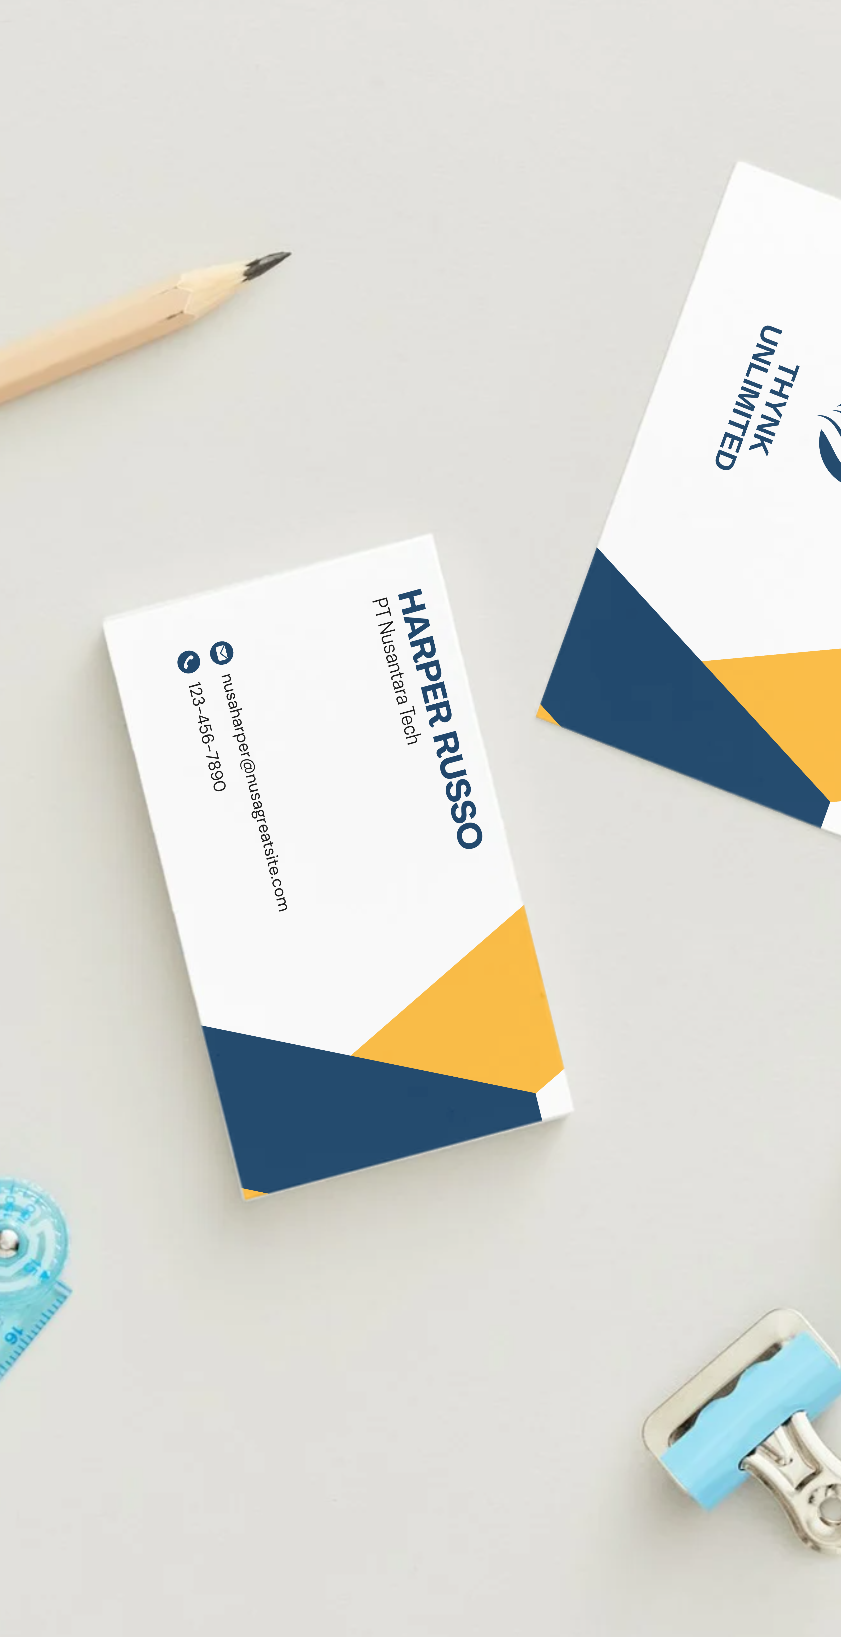
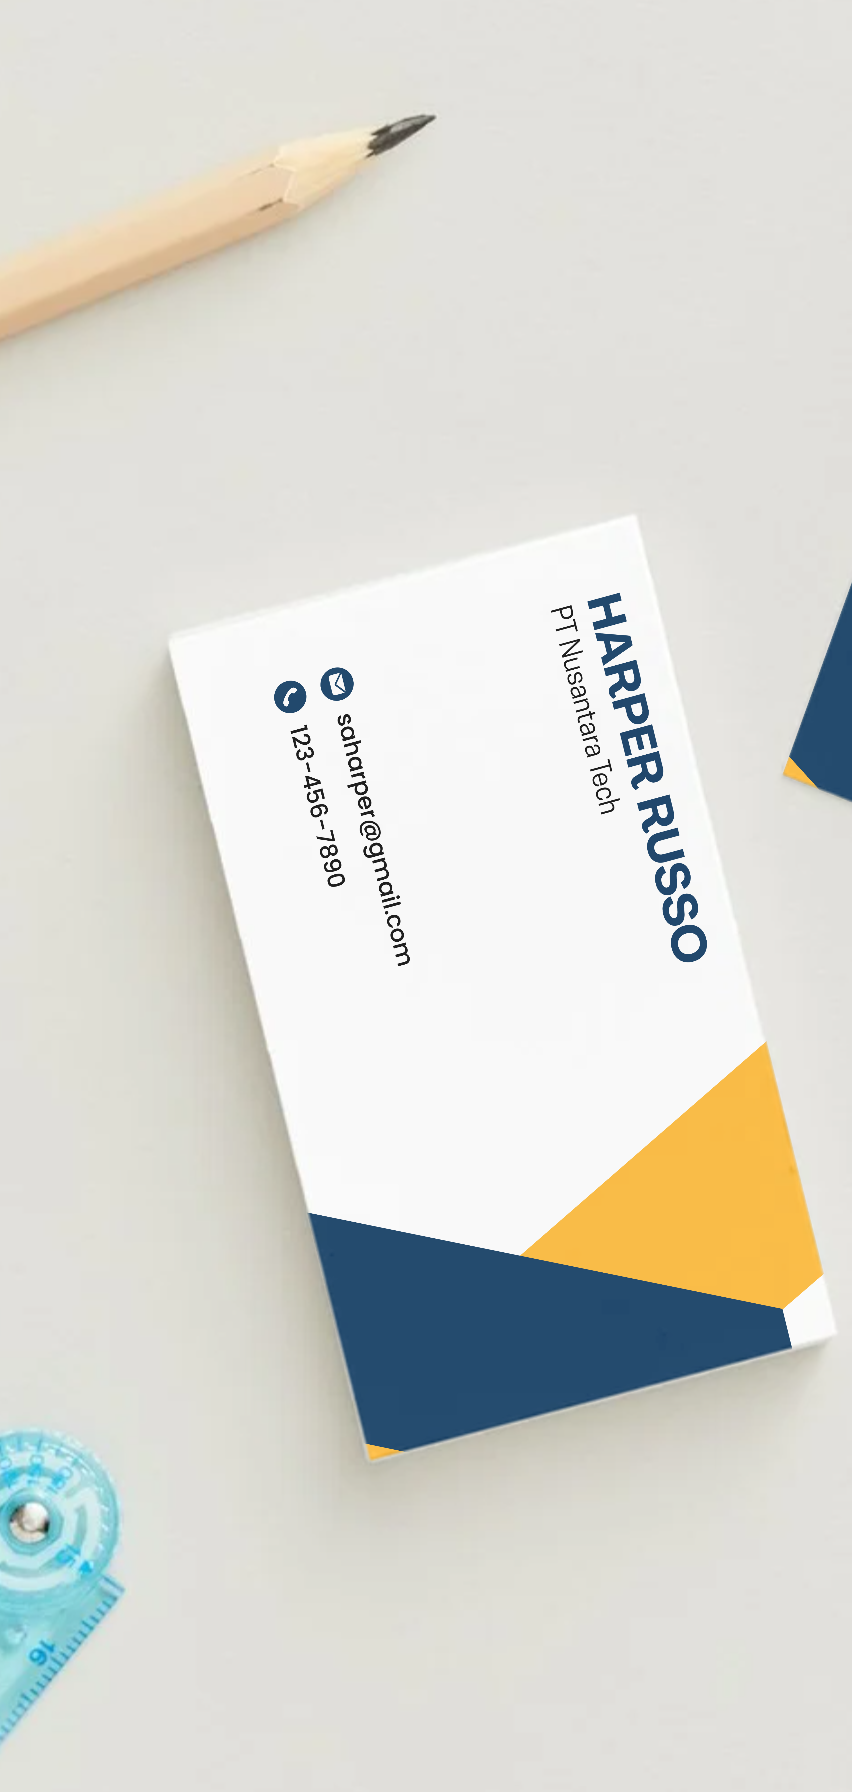
up dataset

diff --git a/src/detector.py b/src/detector.py
@@ -2,8 +2,9 @@ import cv2
 import numpy as np
 
 class DocumentDetector:
-    def __init__(self, min_area_ratio=0.03): # Diturunkan ke 0.03 agar kartu yang tampak kecil/vertikal tetap terdeteksi
+    def __init__(self, min_area_ratio=0.03, max_area_ratio=0.85):
         self.min_area_ratio = min_area_ratio
+        self.max_area_ratio = max_area_ratio
 
     def detect(self, image: np.ndarray):
         h, w = image.shape[:2]
@@ -17,18 +18,13 @@ class DocumentDetector:
             clahe = cv2.createCLAHE(clipLimit=2.5, tileGridSize=(8, 8))
             gray = clahe.apply(gray)
 
-
         blurred = cv2.GaussianBlur(gray, (5, 5), 0)
         
-        # SOLUSI 1: Mengatasi Kontras Rendah
-        # Gabungkan Canny (dengan ambang sensitif) dan Otsu Thresholding 
-        # agar tepi kartu yang putih di atas meja terang tetap terisolasi
         canny = cv2.Canny(blurred, 30, 100)
-        _, thresh_otsu = cv2.threshold(blurred, 0, 255, cv2.THRESH_BINARY_INV + cv2.THRESH_OTSU)
-        combined_edges = cv2.bitwise_or(canny, thresh_otsu)
         
         kernel = cv2.getStructuringElement(cv2.MORPH_RECT, (5, 5))
-        closed = cv2.morphologyEx(combined_edges, cv2.MORPH_CLOSE, kernel, iterations=2)
+        # Langsung proses Canny dengan morphologyEx
+        closed = cv2.morphologyEx(canny, cv2.MORPH_CLOSE, kernel, iterations=2)
         
         contours, _ = cv2.findContours(closed, cv2.RETR_EXTERNAL, cv2.CHAIN_APPROX_SIMPLE)
         contours = sorted(contours, key=cv2.contourArea, reverse=True)
@@ -38,21 +34,22 @@ class DocumentDetector:
         
         for c in contours:
             area = cv2.contourArea(c)
+            
+            # Abaikan kontur terluar jika menutupi lebih dari 85% seluruh area foto
+            if area > (image_area * self.max_area_ratio):
+                continue
+
             if area < (image_area * self.min_area_ratio):
                 break
                 
             peri = cv2.arcLength(c, True)
-            # Sedikit dilonggarkan ke 0.03 agar batas tepi tidak terlalu kaku
             approx = cv2.approxPolyDP(c, 0.03 * peri, True)
             
-            # SOLUSI 2: Melonggarkan Aturan len(approx) == 4
             if len(approx) == 4:
                 doc_contour = c
                 corners = approx.reshape(4, 2)
                 break
             elif 4 < len(approx) <= 10:
-                # Fallback: Jika ada bayangan yang membuat sudut terbaca 5-10 titik, 
-                # paksa buat kotak area terkecil (Minimum Bounding Box) dari kontur tersebut
                 rect = cv2.minAreaRect(c)
                 box = cv2.boxPoints(rect)
                 doc_contour = c
